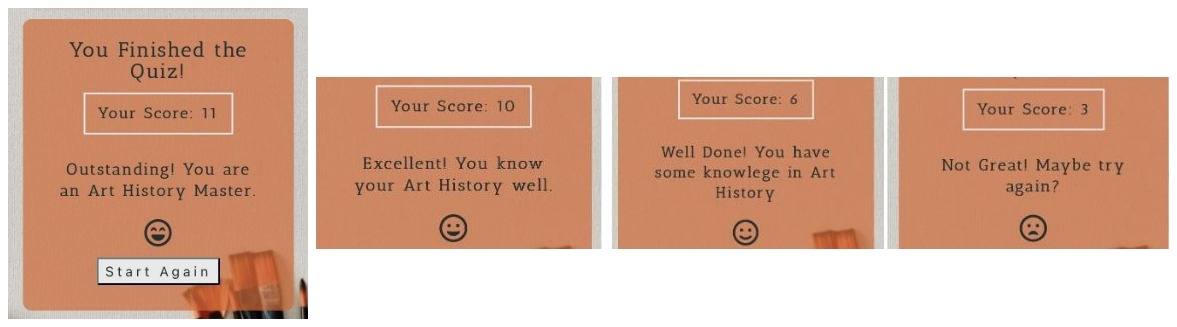
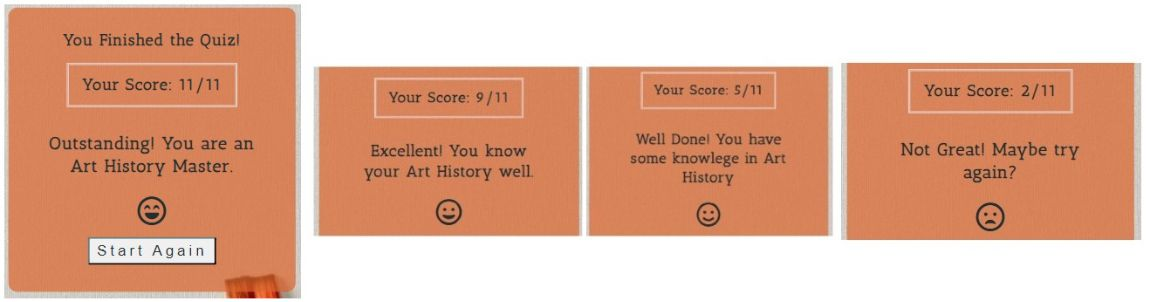
Docs: resize and change feature images

Changed region(s): [[0.0, 0.0, 1.0, 1.0], [0.0609, 0.1192, 0.213, 0.4172]]

diff --git a/README.md b/README.md
@@ -121,7 +121,10 @@ The quiz is responsive on all screen types: Mobiles, Tablets and Laptops.
 
   ![Responsivnes of the Game Section on all screen sizes](docs/features-screenshots/all_screen_views.jpg)
 
+  ![Header no score-box](docs/features-screenshots/heading_noscore.jpg)&nbsp;&nbsp;------->&nbsp;&nbsp;
   ![Header transformation revealing the score-box](docs/features-screenshots/score_box.jpg)
+
+  &nbsp;&nbsp;-------->&nbsp;&nbsp;![Incremented score function](docs/features-screenshots/score.jpg)
 
   ![Answer options Laptop](docs/features-screenshots/option_bar.jpg)&nbsp;&nbsp;------->&nbsp;&nbsp;
 
@@ -145,7 +148,8 @@ The quiz is responsive on all screen types: Mobiles, Tablets and Laptops.
 - The process repeats until all 11 painting are named and the final "Next" button reveals the **Game End Section**.
 
 #### **Game End Section**
-  ![Game End heading section](docs/features-screenshots/endgame_heading.jpg)
+  ![Header transformation revealing the score-box](docs/features-screenshots/score_box.jpg)&nbsp;&nbsp;------->&nbsp;&nbsp;
+  ![Header no score-box](docs/features-screenshots/heading_noscore.jpg)
   ![Game End all message variations](docs/features-screenshots/end_game_messages.jpg)
 
 - At the bottom of the **Game End Section** there is a "Play Again" button that allows the user to try to play again; when clicked, it bring the user back to the **Game Section**.
